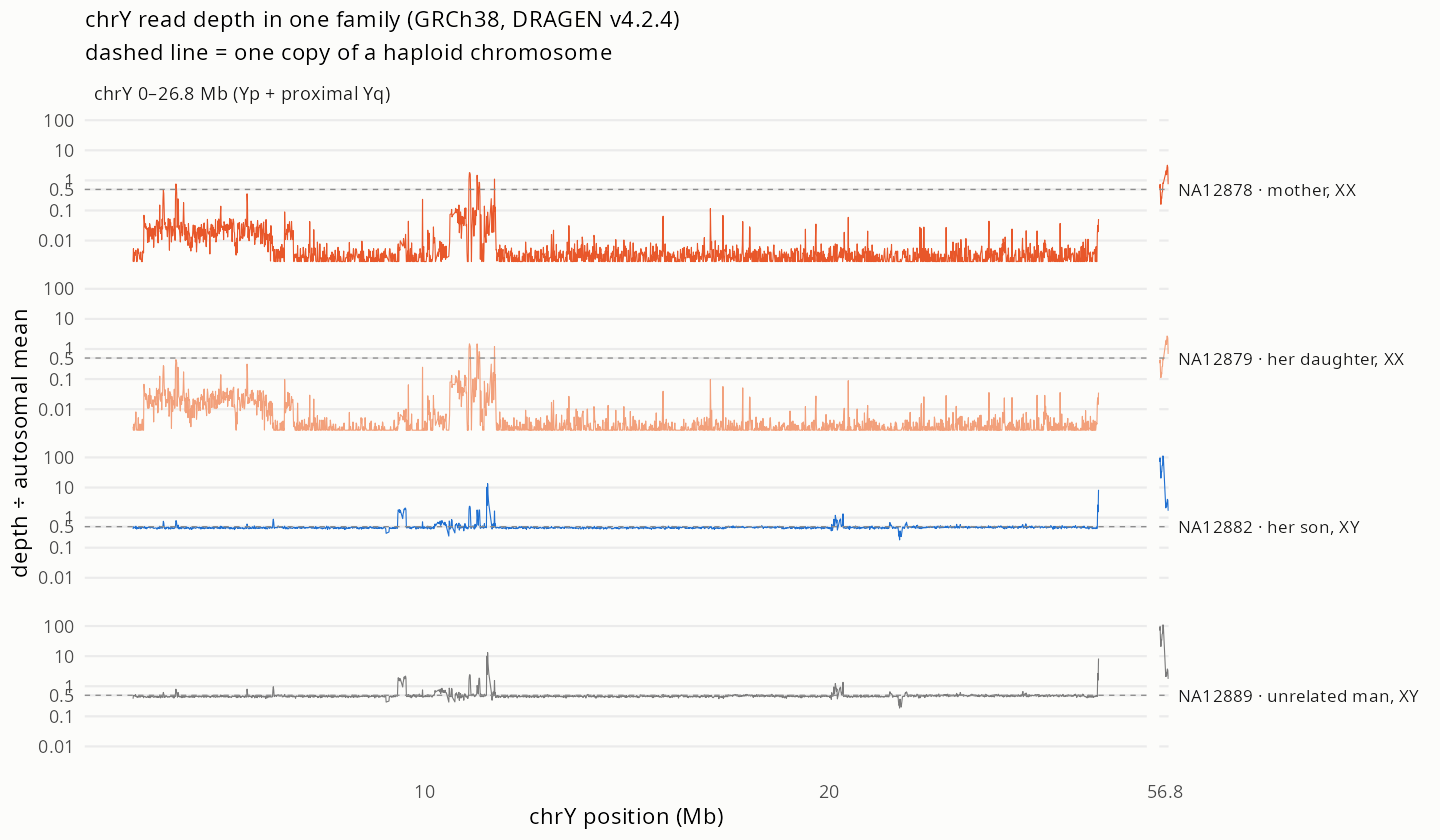
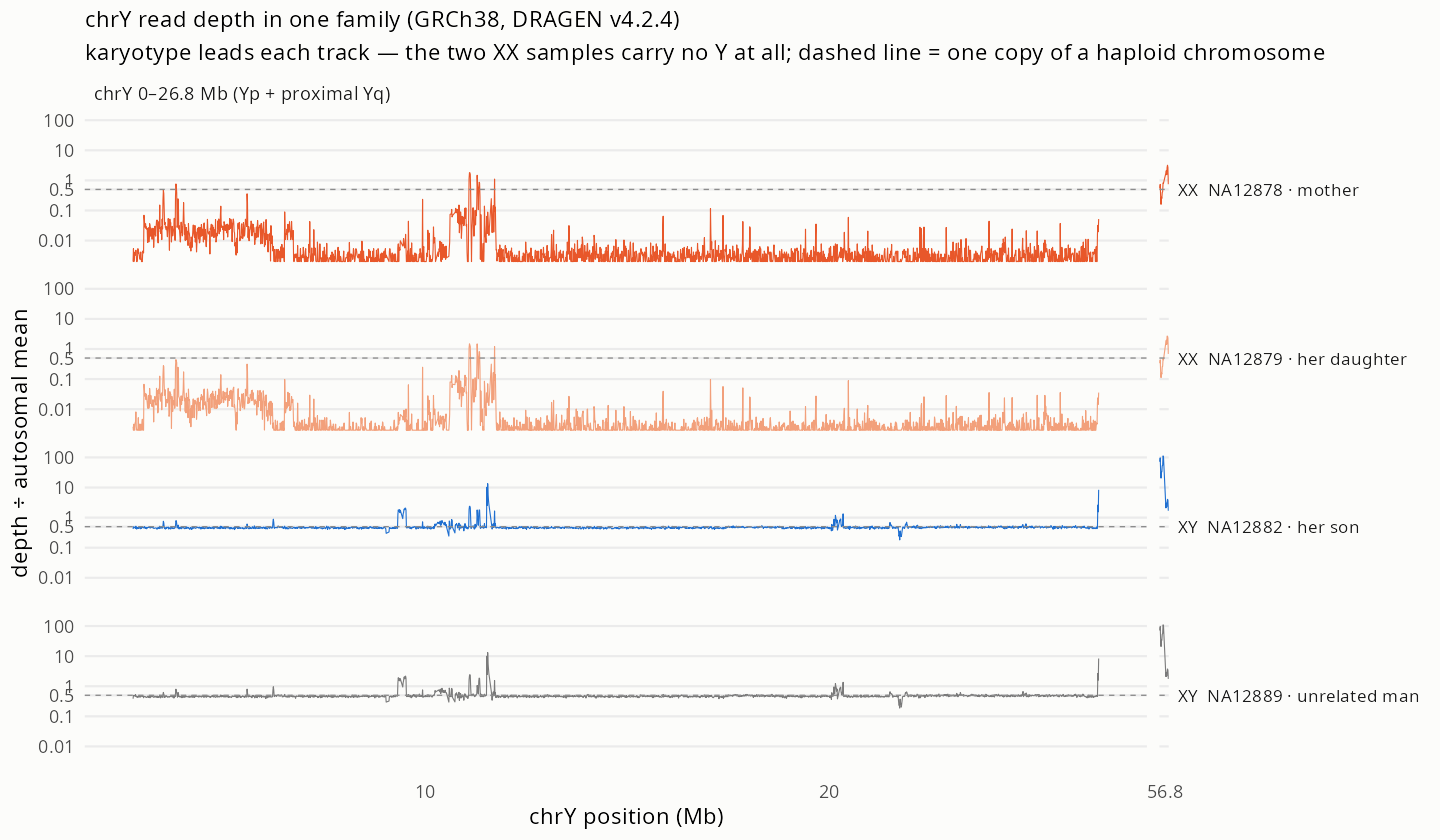
Lead each chrY figure track with the sample's karyotype
Claude-Session: https://claude.ai/code/session_01X1rKmJF6yDY1jbN4vabaps

diff --git a/README.md b/README.md
@@ -1350,7 +1350,7 @@ and theirs are a real chromosome. Comparing the two read sets measures how
 convincingly an artifact impersonates a Y — and kinship contributes nothing to
 the answer.
 
-![chrY read depth for a mother, her daughter, her son and an unrelated man](img/chry_family.png)
+![chrY read depth for an XX mother, her XX daughter, her XY son and an unrelated XY man](img/chry_family.png)
 
 Three blocks hold 88% of NA12878's 156,293 chrY reads: the X-transposed region
 (28,298 reads), the centromeric satellite at 10.0-12.5 Mb (61,572), and the 220
@@ -1369,7 +1369,7 @@ NA12878, Pearson r runs 0.25 for her son NA12882, 0.25 for her son NA12886, 0.24
 for her husband NA12877 and 0.25 for the unrelated NA12889 — and 0.99 for her
 daughter NA12879. Sex fixes the profile; relatedness does not move it.
 
-![Window-by-window comparison and X-allele sharing](img/chry_similarity.png)
+![Window-by-window comparison of the XX mother against XX and XY relatives, and X-allele sharing](img/chry_similarity.png)
 
 The alleles say where her reads came from. Inside the X-transposed region her
 chrY reads disagree with the chrY reference at 1,003 positions covered at least
@@ -1396,7 +1396,7 @@ GRCh38DH graph gives 156,293; the same DRAGEN pipeline against T2T-CHM13v2 gives
 5,906,736 on CHM13, because a complete Y is 5 Mb longer than one with a gap in
 it. The female-to-male ratio falls from 14% to 3.2% to 1.2%.
 
-![NA12878 chrY depth on GRCh38 and on T2T-CHM13v2](img/chry_reference.png)
+![chrY depth for NA12878, an XX sample, on GRCh38 and on T2T-CHM13v2](img/chry_reference.png)
 
 T2T removes the artifact by supplying the sequence the reads actually came from.
 GRCh38 spells 30 Mb of Yq12 as N and has no beta satellite array long enough to
